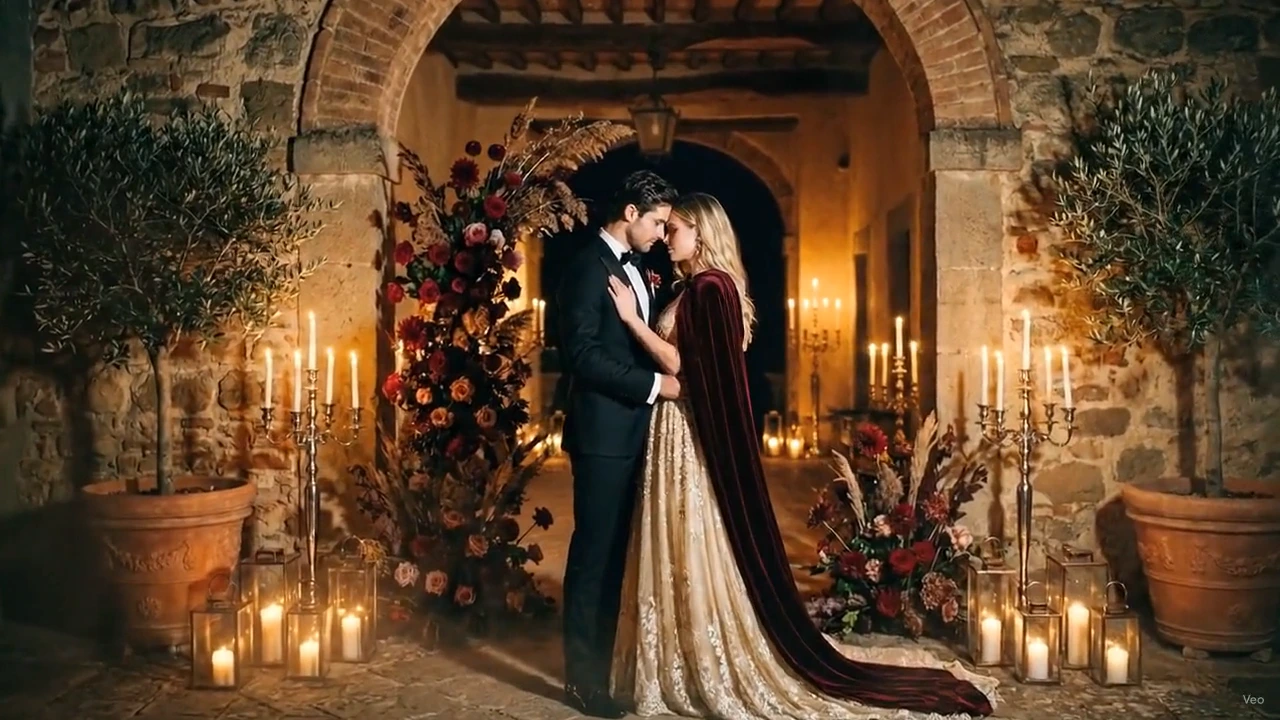
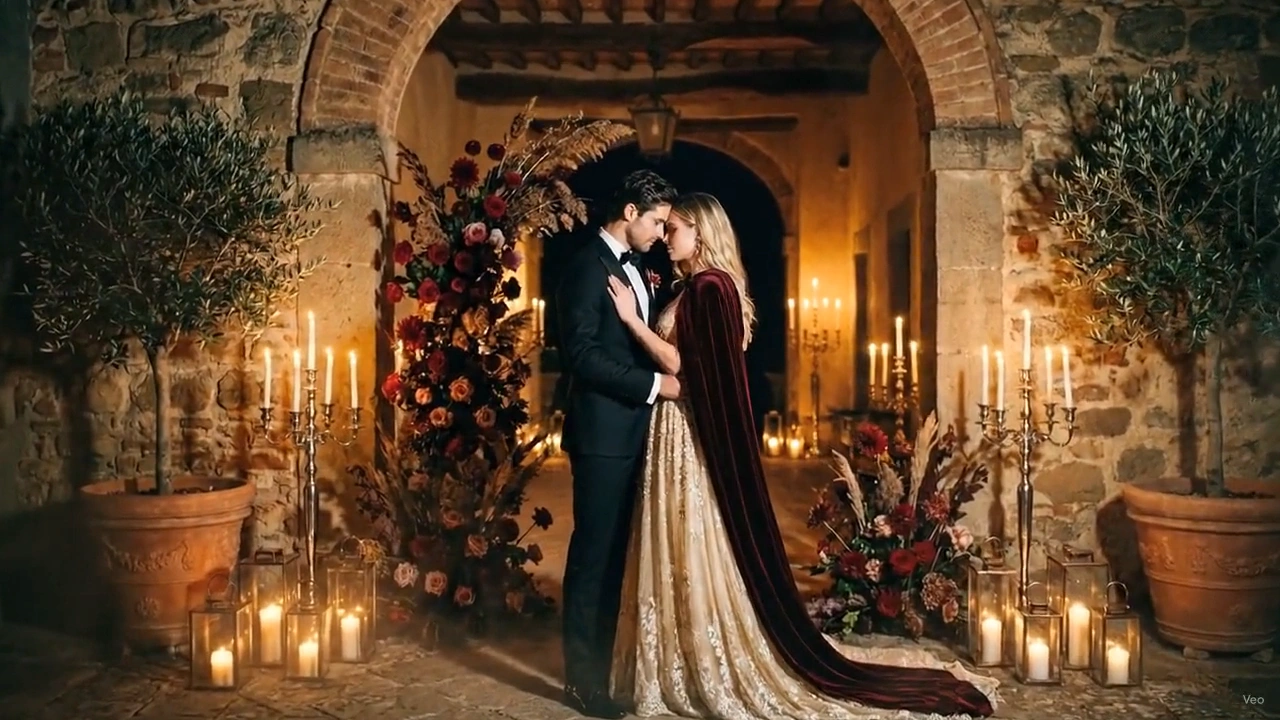
fix: eliminate hero video end-frame micro-shift

diff --git a/code.html b/code.html
@@ -1506,11 +1506,11 @@
       <!-- Background Parallax Image & Video Container -->
       <div class="absolute inset-0 z-0 overflow-hidden pointer-events-none">
         <!-- Desktop / Tablet 16:9 Video -->
-        <video id="heroVideoDesktop" class="hidden md:block absolute inset-0 w-full h-full object-cover will-change-transform opacity-0 z-10" muted playsinline preload="none"></video>
+        <video id="heroVideoDesktop" class="hidden md:block absolute inset-0 w-full h-full object-cover object-center will-change-transform opacity-0 z-10" muted playsinline preload="none"></video>
         <!-- Mobile 9:16 Portrait Video -->
-        <video id="heroVideoMobile" class="block md:hidden absolute inset-0 w-full h-full object-cover will-change-transform opacity-0 z-10" muted playsinline preload="none"></video>
+        <video id="heroVideoMobile" class="block md:hidden absolute inset-0 w-full h-full object-cover object-center will-change-transform opacity-0 z-10" muted playsinline preload="none"></video>
         <!-- Static End-Frame Background Image (Underneath Video at z-0) -->
-        <div class="w-full h-full will-change-transform z-0" id="heroBg">
+        <div class="absolute inset-0 w-full h-full will-change-transform z-0" id="heroBg">
           <picture class="block w-full h-full">
             <source media="(min-width: 768px)" srcset="assets/images/binshad-shahina-wedding-desktop-final.webp" type="image/webp"/>
             <img src="assets/images/binshad-shahina-wedding-mobile-final.webp" alt="Binshad and Shahina" class="w-full h-full object-cover object-center" fetchpriority="high"/>
@@ -2152,8 +2152,8 @@
     });
     let musicPlaybackStarted = false;
 
-    // beginHomepageReveal: reveals nav + hero UI (couple-only film single-playthrough).
-    // Audited slower, softer cinematic timing set (starts 0.5s after playing).
+    // beginHomepageReveal: reveals nav + hero UI with luxury cinematic fade-in.
+    // Audited slower, softer editorial timing with responsive motion tiers.
     function beginHomepageReveal() {
       if (homepageRevealStarted) return;
       homepageRevealStarted = true;
@@ -2164,36 +2164,45 @@
       const heroBottomBar  = document.getElementById('heroBottomBar');
 
       if (!prefersReducedMotion) {
+        const w = window.innerWidth;
+        const isDesktop = w >= 1200;
+        const isTablet  = w >= 768 && w < 1200;
+
+        const cfg = isDesktop ? {
+          nav: { from: { opacity: 0, y: -6, filter: 'blur(6px)' }, to: { opacity: 1, y: 0, filter: 'blur(0px)', duration: 2.8, delay: 0, ease: 'power1.out' } },
+          hero: { from: { opacity: 0, y: 10, scale: 0.996, filter: 'blur(10px)' }, to: { opacity: 1, y: 0, scale: 1, filter: 'blur(0px)', duration: 3.2, delay: 0.12, ease: 'power1.out' } },
+          items: { from: { opacity: 0, y: 8 }, to: { opacity: 1, y: 0, duration: 2.6, delay: 0.25, stagger: 0.20, ease: 'power1.out' } },
+          bar: { from: { opacity: 0, y: 6 }, to: { opacity: 1, y: 0, duration: 2.2, delay: 0.85, ease: 'power1.out' } }
+        } : isTablet ? {
+          nav: { from: { opacity: 0, y: -5, filter: 'blur(5px)' }, to: { opacity: 1, y: 0, filter: 'blur(0px)', duration: 2.6, delay: 0, ease: 'power1.out' } },
+          hero: { from: { opacity: 0, y: 9, scale: 0.997, filter: 'blur(9px)' }, to: { opacity: 1, y: 0, scale: 1, filter: 'blur(0px)', duration: 3.0, delay: 0.12, ease: 'power1.out' } },
+          items: { from: { opacity: 0, y: 7 }, to: { opacity: 1, y: 0, duration: 2.4, delay: 0.22, stagger: 0.17, ease: 'power1.out' } },
+          bar: { from: { opacity: 0, y: 5 }, to: { opacity: 1, y: 0, duration: 2.0, delay: 0.80, ease: 'power1.out' } }
+        } : {
+          nav: { from: { opacity: 0, y: -4, filter: 'blur(4px)' }, to: { opacity: 1, y: 0, filter: 'blur(0px)', duration: 2.2, delay: 0, ease: 'power1.out' } },
+          hero: { from: { opacity: 0, y: 6, scale: 0.998, filter: 'blur(7px)' }, to: { opacity: 1, y: 0, scale: 1, filter: 'blur(0px)', duration: 2.6, delay: 0.10, ease: 'power1.out' } },
+          items: { from: { opacity: 0, y: 6 }, to: { opacity: 1, y: 0, duration: 2.1, delay: 0.18, stagger: 0.14, ease: 'power1.out' } },
+          bar: { from: { opacity: 0, y: 4 }, to: { opacity: 1, y: 0, duration: 1.8, delay: 0.70, ease: 'power1.out' } }
+        };
+
         if (mainNav) {
           mainNav.classList.remove('opacity-0', 'pointer-events-none');
-          gsap.fromTo(mainNav,
-            { opacity: 0, y: -8, filter: 'blur(4px)' },
-            { opacity: 1, y: 0,  filter: 'blur(0px)', duration: 1.8, ease: 'power2.out' }
-          );
+          gsap.fromTo(mainNav, cfg.nav.from, cfg.nav.to);
         }
         if (heroTypography) {
           heroTypography.classList.remove('opacity-0', 'pointer-events-none');
-          gsap.fromTo(heroTypography,
-            { opacity: 0, y: 14, scale: 0.990, filter: 'blur(6px)' },
-            { opacity: 1, y: 0,  scale: 1,     filter: 'blur(0px)', duration: 2.0, ease: 'power2.out', delay: 0.20 }
-          );
+          gsap.fromTo(heroTypography, cfg.hero.from, cfg.hero.to);
         }
         if (heroAnimItems.length > 0) {
-          gsap.fromTo(heroAnimItems,
-            { y: 14, opacity: 0 },
-            { y: 0,  opacity: 1, duration: 1.6, stagger: 0.18, ease: 'power2.out', delay: 0.35 }
-          );
+          gsap.fromTo(heroAnimItems, cfg.items.from, cfg.items.to);
         }
         if (heroBottomBar) {
           heroBottomBar.classList.remove('opacity-0', 'pointer-events-none');
-          gsap.fromTo(heroBottomBar,
-            { y: 8, opacity: 0 },
-            { y: 0, opacity: 1, duration: 1.4, ease: 'power2.out', delay: 0.90 }
-          );
+          gsap.fromTo(heroBottomBar, cfg.bar.from, cfg.bar.to);
         }
       } else {
-        if (mainNav)        { mainNav.classList.remove('opacity-0','pointer-events-none');        gsap.set(mainNav,        { opacity: 1 }); }
-        if (heroTypography) { heroTypography.classList.remove('opacity-0','pointer-events-none'); gsap.set(heroTypography, { opacity: 1, y: 0, scale: 1 }); }
+        if (mainNav)        { mainNav.classList.remove('opacity-0','pointer-events-none');        gsap.set(mainNav,        { opacity: 1, y: 0, filter: 'none' }); }
+        if (heroTypography) { heroTypography.classList.remove('opacity-0','pointer-events-none'); gsap.set(heroTypography, { opacity: 1, y: 0, scale: 1, filter: 'none' }); }
         if (heroAnimItems.length > 0) gsap.set(heroAnimItems, { y: 0, opacity: 1 });
         if (heroBottomBar)  { heroBottomBar.classList.remove('opacity-0','pointer-events-none');  gsap.set(heroBottomBar,  { y: 0, opacity: 1 }); }
       }
@@ -2622,12 +2631,12 @@
         function onVideoEnded() {
           console.log('[Video] ended event detected; fading out video to reveal static final frame');
           if (activeVideo) {
+            try { activeVideo.pause(); } catch(e) {}
             gsap.to(activeVideo, {
               opacity: 0,
               duration: 0.4,
               ease: 'power1.out',
               onComplete: () => {
-                try { activeVideo.pause(); } catch(e) {}
                 activeVideo.style.display = 'none';
               }
             });
@@ -2926,7 +2935,8 @@
             pin: storyPinViewport,
             pinSpacing: true,
             scrub: 0.5,
-            anticipatePin: 1
+            anticipatePin: 2,
+            pinType: 'fixed'
           },
           onUpdate: () => {
             const t = storyTl.time();
@@ -3044,7 +3054,8 @@
             pin: storyPinViewport,
             pinSpacing: true,
             scrub: 0.4,
-            anticipatePin: 1
+            anticipatePin: 2,
+            pinType: 'fixed'
           },
           onUpdate: () => {
             const t = storyTl.time();

diff --git a/index.html b/index.html
@@ -1506,11 +1506,11 @@
       <!-- Background Parallax Image & Video Container -->
       <div class="absolute inset-0 z-0 overflow-hidden pointer-events-none">
         <!-- Desktop / Tablet 16:9 Video -->
-        <video id="heroVideoDesktop" class="hidden md:block absolute inset-0 w-full h-full object-cover will-change-transform opacity-0 z-10" muted playsinline preload="none"></video>
+        <video id="heroVideoDesktop" class="hidden md:block absolute inset-0 w-full h-full object-cover object-center will-change-transform opacity-0 z-10" muted playsinline preload="none"></video>
         <!-- Mobile 9:16 Portrait Video -->
-        <video id="heroVideoMobile" class="block md:hidden absolute inset-0 w-full h-full object-cover will-change-transform opacity-0 z-10" muted playsinline preload="none"></video>
+        <video id="heroVideoMobile" class="block md:hidden absolute inset-0 w-full h-full object-cover object-center will-change-transform opacity-0 z-10" muted playsinline preload="none"></video>
         <!-- Static End-Frame Background Image (Underneath Video at z-0) -->
-        <div class="w-full h-full will-change-transform z-0" id="heroBg">
+        <div class="absolute inset-0 w-full h-full will-change-transform z-0" id="heroBg">
           <picture class="block w-full h-full">
             <source media="(min-width: 768px)" srcset="assets/images/binshad-shahina-wedding-desktop-final.webp" type="image/webp"/>
             <img src="assets/images/binshad-shahina-wedding-mobile-final.webp" alt="Binshad and Shahina" class="w-full h-full object-cover object-center" fetchpriority="high"/>
@@ -2152,8 +2152,8 @@
     });
     let musicPlaybackStarted = false;
 
-    // beginHomepageReveal: reveals nav + hero UI (couple-only film single-playthrough).
-    // Audited slower, softer cinematic timing set (starts 0.5s after playing).
+    // beginHomepageReveal: reveals nav + hero UI with luxury cinematic fade-in.
+    // Audited slower, softer editorial timing with responsive motion tiers.
     function beginHomepageReveal() {
       if (homepageRevealStarted) return;
       homepageRevealStarted = true;
@@ -2164,36 +2164,45 @@
       const heroBottomBar  = document.getElementById('heroBottomBar');
 
       if (!prefersReducedMotion) {
+        const w = window.innerWidth;
+        const isDesktop = w >= 1200;
+        const isTablet  = w >= 768 && w < 1200;
+
+        const cfg = isDesktop ? {
+          nav: { from: { opacity: 0, y: -6, filter: 'blur(6px)' }, to: { opacity: 1, y: 0, filter: 'blur(0px)', duration: 2.8, delay: 0, ease: 'power1.out' } },
+          hero: { from: { opacity: 0, y: 10, scale: 0.996, filter: 'blur(10px)' }, to: { opacity: 1, y: 0, scale: 1, filter: 'blur(0px)', duration: 3.2, delay: 0.12, ease: 'power1.out' } },
+          items: { from: { opacity: 0, y: 8 }, to: { opacity: 1, y: 0, duration: 2.6, delay: 0.25, stagger: 0.20, ease: 'power1.out' } },
+          bar: { from: { opacity: 0, y: 6 }, to: { opacity: 1, y: 0, duration: 2.2, delay: 0.85, ease: 'power1.out' } }
+        } : isTablet ? {
+          nav: { from: { opacity: 0, y: -5, filter: 'blur(5px)' }, to: { opacity: 1, y: 0, filter: 'blur(0px)', duration: 2.6, delay: 0, ease: 'power1.out' } },
+          hero: { from: { opacity: 0, y: 9, scale: 0.997, filter: 'blur(9px)' }, to: { opacity: 1, y: 0, scale: 1, filter: 'blur(0px)', duration: 3.0, delay: 0.12, ease: 'power1.out' } },
+          items: { from: { opacity: 0, y: 7 }, to: { opacity: 1, y: 0, duration: 2.4, delay: 0.22, stagger: 0.17, ease: 'power1.out' } },
+          bar: { from: { opacity: 0, y: 5 }, to: { opacity: 1, y: 0, duration: 2.0, delay: 0.80, ease: 'power1.out' } }
+        } : {
+          nav: { from: { opacity: 0, y: -4, filter: 'blur(4px)' }, to: { opacity: 1, y: 0, filter: 'blur(0px)', duration: 2.2, delay: 0, ease: 'power1.out' } },
+          hero: { from: { opacity: 0, y: 6, scale: 0.998, filter: 'blur(7px)' }, to: { opacity: 1, y: 0, scale: 1, filter: 'blur(0px)', duration: 2.6, delay: 0.10, ease: 'power1.out' } },
+          items: { from: { opacity: 0, y: 6 }, to: { opacity: 1, y: 0, duration: 2.1, delay: 0.18, stagger: 0.14, ease: 'power1.out' } },
+          bar: { from: { opacity: 0, y: 4 }, to: { opacity: 1, y: 0, duration: 1.8, delay: 0.70, ease: 'power1.out' } }
+        };
+
         if (mainNav) {
           mainNav.classList.remove('opacity-0', 'pointer-events-none');
-          gsap.fromTo(mainNav,
-            { opacity: 0, y: -8, filter: 'blur(4px)' },
-            { opacity: 1, y: 0,  filter: 'blur(0px)', duration: 1.8, ease: 'power2.out' }
-          );
+          gsap.fromTo(mainNav, cfg.nav.from, cfg.nav.to);
         }
         if (heroTypography) {
           heroTypography.classList.remove('opacity-0', 'pointer-events-none');
-          gsap.fromTo(heroTypography,
-            { opacity: 0, y: 14, scale: 0.990, filter: 'blur(6px)' },
-            { opacity: 1, y: 0,  scale: 1,     filter: 'blur(0px)', duration: 2.0, ease: 'power2.out', delay: 0.20 }
-          );
+          gsap.fromTo(heroTypography, cfg.hero.from, cfg.hero.to);
         }
         if (heroAnimItems.length > 0) {
-          gsap.fromTo(heroAnimItems,
-            { y: 14, opacity: 0 },
-            { y: 0,  opacity: 1, duration: 1.6, stagger: 0.18, ease: 'power2.out', delay: 0.35 }
-          );
+          gsap.fromTo(heroAnimItems, cfg.items.from, cfg.items.to);
         }
         if (heroBottomBar) {
           heroBottomBar.classList.remove('opacity-0', 'pointer-events-none');
-          gsap.fromTo(heroBottomBar,
-            { y: 8, opacity: 0 },
-            { y: 0, opacity: 1, duration: 1.4, ease: 'power2.out', delay: 0.90 }
-          );
+          gsap.fromTo(heroBottomBar, cfg.bar.from, cfg.bar.to);
         }
       } else {
-        if (mainNav)        { mainNav.classList.remove('opacity-0','pointer-events-none');        gsap.set(mainNav,        { opacity: 1 }); }
-        if (heroTypography) { heroTypography.classList.remove('opacity-0','pointer-events-none'); gsap.set(heroTypography, { opacity: 1, y: 0, scale: 1 }); }
+        if (mainNav)        { mainNav.classList.remove('opacity-0','pointer-events-none');        gsap.set(mainNav,        { opacity: 1, y: 0, filter: 'none' }); }
+        if (heroTypography) { heroTypography.classList.remove('opacity-0','pointer-events-none'); gsap.set(heroTypography, { opacity: 1, y: 0, scale: 1, filter: 'none' }); }
         if (heroAnimItems.length > 0) gsap.set(heroAnimItems, { y: 0, opacity: 1 });
         if (heroBottomBar)  { heroBottomBar.classList.remove('opacity-0','pointer-events-none');  gsap.set(heroBottomBar,  { y: 0, opacity: 1 }); }
       }
@@ -2622,12 +2631,12 @@
         function onVideoEnded() {
           console.log('[Video] ended event detected; fading out video to reveal static final frame');
           if (activeVideo) {
+            try { activeVideo.pause(); } catch(e) {}
             gsap.to(activeVideo, {
               opacity: 0,
               duration: 0.4,
               ease: 'power1.out',
               onComplete: () => {
-                try { activeVideo.pause(); } catch(e) {}
                 activeVideo.style.display = 'none';
               }
             });
@@ -2926,7 +2935,8 @@
             pin: storyPinViewport,
             pinSpacing: true,
             scrub: 0.5,
-            anticipatePin: 1
+            anticipatePin: 2,
+            pinType: 'fixed'
           },
           onUpdate: () => {
             const t = storyTl.time();
@@ -3044,7 +3054,8 @@
             pin: storyPinViewport,
             pinSpacing: true,
             scrub: 0.4,
-            anticipatePin: 1
+            anticipatePin: 2,
+            pinType: 'fixed'
           },
           onUpdate: () => {
             const t = storyTl.time();
